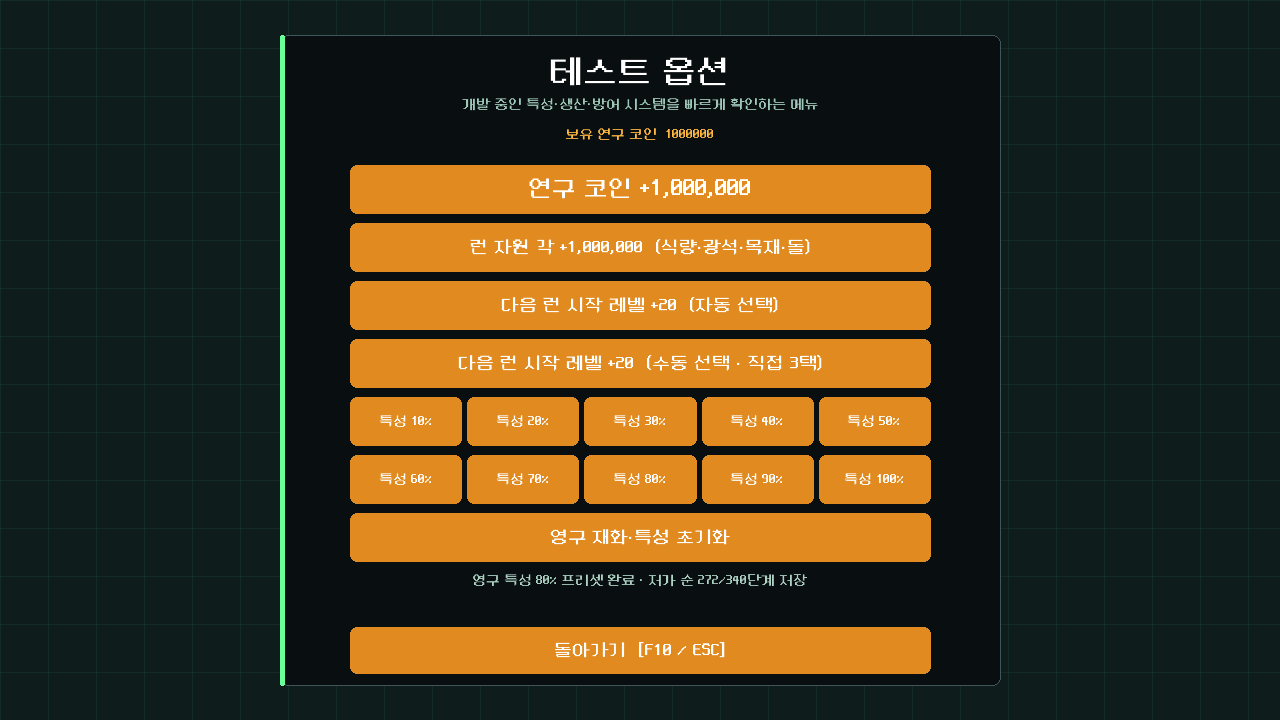
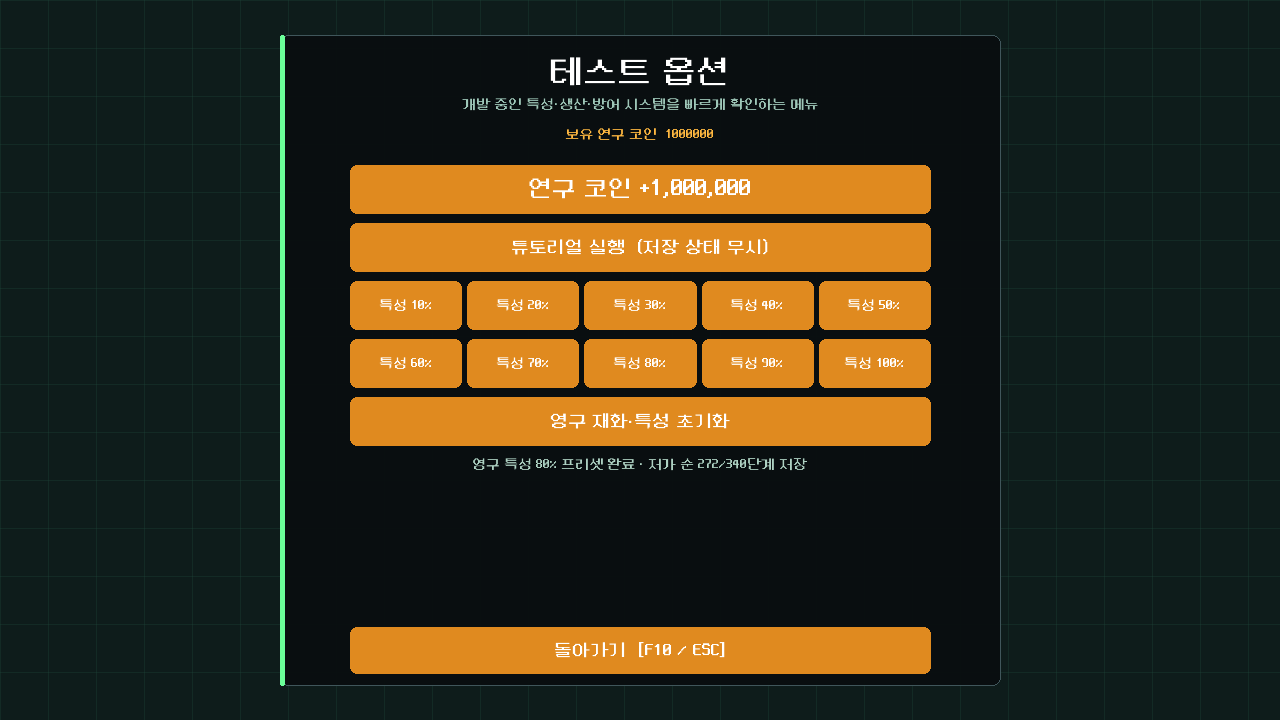
Add tutorial replay to developer tools

Changed region(s): [[0.25, 0.3972, 0.75, 0.825], [0.375, 0.3056, 0.625, 0.3667]]

diff --git a/docs/ACTIVE_DEVELOPMENT_MODE.md b/docs/ACTIVE_DEVELOPMENT_MODE.md
@@ -24,6 +24,7 @@
 - 메타 진행은 `작업 → 정산 → 기록전 영구 연구 → 즉시 다음 작업`으로 연결한다. 상세 기준은 `docs/SCORE_ATTACK_META_LOOP.md`다.
 - 로비 `P` 연습장도 같은 `score_attack` 런타임을 쓴다. 단, 시간·과밀·개체 수 상한·0그루 승급·세계수를 끄고 나무를 계속 생성하는 무한 테스트장으로 변형한다. 보유 특성과 세이브를 건드리지 않는 임시 전체 만렙 사이를 선택할 수 있다.
 - `F10` 개발자 도구에는 활성 영구 연구를 실제 가격이 싼 순서로 채우는 `10%~100%`(10% 단위) 저장 프리셋이 있다. 선행 조건을 지킨 정상 연구망을 만들며, 진행 중인 판에는 재시작 뒤 적용된다.
+- 같은 메뉴의 `튜토리얼 실행`은 저장 상태를 무시하고 핵심 안내를 즉시 재생한다. 로비에서 실행하면 별도 기록전으로 들어가며 실제 첫 판/두 번째 판 횟수와 튜토리얼 완료 기록을 바꾸지 않는다. 사용하지 않는 런 자원 지급 및 다음 런 레벨 자동·수동 버튼은 메뉴에서 제거했다.
 
 ## 의도적으로 비활성화한 범위
 
